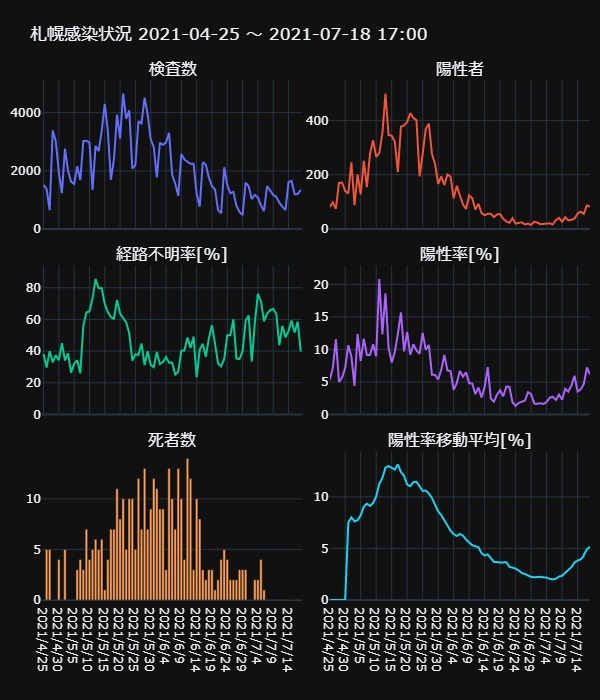
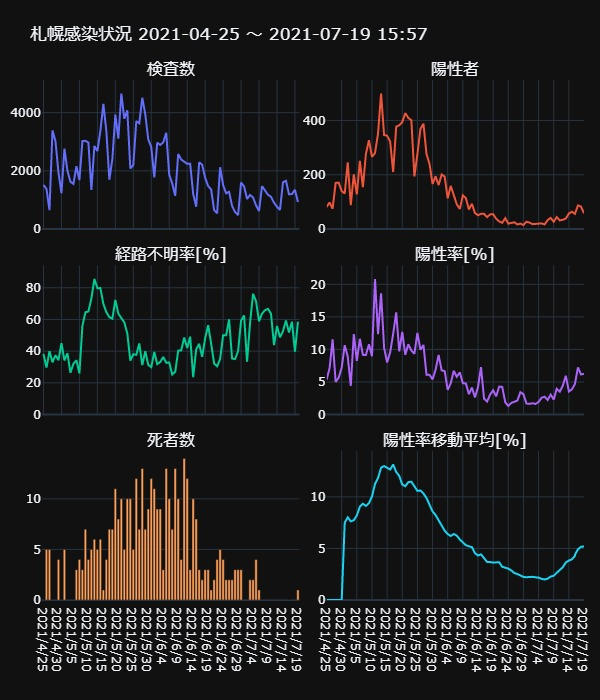
Updated with latest data.

diff --git a/docs/_includes/sapporo.html b/docs/_includes/sapporo.html
@@ -1,1 +1,1 @@
-<div>                            <div id="8878cf2e-042f-41bd-a453-0bb9c112a18b" class="plotly-graph-div" style="height:700px; width:600px;"></div>            <script type="text/javascript">                                    window.PLOTLYENV=window.PLOTLYENV || {};                                    if (document.getElementById("8878cf2e-042f-41bd-a453-0bb9c112a18b")) {                    Plotly.newPlot(                        "8878cf2e-042f-41bd-a453-0bb9c112a18b",                        [{"name": "\u691c\u67fb\u6570", "type": "scatter", "x": ["2021/4/25", "2021/4/26", "2021/4/27", "2021/4/28", "2021/4/29", "2021/4/30", "2021/5/1", "2021/5/2", "2021/5/3", "2021/5/4", "2021/5/5", "2021/5/6", "2021/5/7", "2021/5/8", "2021/5/9", "2021/5/10", "2021/5/11", "2021/5/12", "2021/5/13", "2021/5/14", "2021/5/15", "2021/5/16", "2021/5/17", "2021/5/18", "2021/5/19", "2021/5/20", "2021/5/21", "2021/5/22", "2021/5/23", "2021/5/24", "2021/5/25", "2021/5/26", "2021/5/27", "2021/5/28", "2021/5/29", "2021/5/30", "2021/5/31", "2021/6/1", "2021/6/2", "2021/6/3", "2021/6/4", "2021/6/5", "2021/6/6", "2021/6/7", "2021/6/8", "2021/6/9", "2021/6/10", "2021/6/11", "2021/6/12", "2021/6/13", "2021/6/14", "2021/6/15", "2021/6/16", "2021/6/17", "2021/6/18", "2021/6/19", "2021/6/20", "2021/6/21", "2021/6/22", "2021/6/23", "2021/6/24", "2021/6/25", "2021/6/26", "2021/6/27", "2021/6/28", "2021/6/29", "2021/6/30", "2021/7/1", "2021/7/2", "2021/7/3", "2021/7/4", "2021/7/5", "2021/7/6", "2021/7/7", "2021/7/8", "2021/7/9", "2021/7/10", "2021/7/11", "2021/7/12", "2021/7/13", "2021/7/14", "2021/7/15", "2021/7/16", "2021/7/16", "2021/7/17", "2021/7/18"], "xaxis": "x", "y": [1517, 1377, 649, 3391, 3018, 1946, 1231, 2764, 2001, 1626, 1553, 2157, 1680, 3028, 3031, 2972, 1345, 2856, 2680, 3372, 4302, 3365, 1694, 2402, 3933, 3105, 4656, 3789, 4080, 2080, 2201, 3708, 3632, 4511, 3943, 3079, 2818, 1773, 2967, 2891, 2978, 3307, 1863, 1567, 1142, 2577, 2391, 2307, 2240, 2244, 1208, 768, 2295, 2212, 1763, 1476, 1360, 653, 542, 2124, 1513, 1229, 1278, 793, 583, 478, 1599, 1467, 1035, 1172, 1086, 813, 621, 1476, 1340, 1175, 1110, 909, 764, 656, 1610, 1658, 1197, 1197, 1202, 1350], "yaxis": "y"}, {"name": "\u967d\u6027\u8005", "type": "scatter", "x": ["2021/4/25", "2021/4/26", "2021/4/27", "2021/4/28", "2021/4/29", "2021/4/30", "2021/5/1", "2021/5/2", "2021/5/3", "2021/5/4", "2021/5/5", "2021/5/6", "2021/5/7", "2021/5/8", "2021/5/9", "2021/5/10", "2021/5/11", "2021/5/12", "2021/5/13", "2021/5/14", "2021/5/15", "2021/5/16", "2021/5/17", "2021/5/18", "2021/5/19", "2021/5/20", "2021/5/21", "2021/5/22", "2021/5/23", "2021/5/24", "2021/5/25", "2021/5/26", "2021/5/27", "2021/5/28", "2021/5/29", "2021/5/30", "2021/5/31", "2021/6/1", "2021/6/2", "2021/6/3", "2021/6/4", "2021/6/5", "2021/6/6", "2021/6/7", "2021/6/8", "2021/6/9", "2021/6/10", "2021/6/11", "2021/6/12", "2021/6/13", "2021/6/14", "2021/6/15", "2021/6/16", "2021/6/17", "2021/6/18", "2021/6/19", "2021/6/20", "2021/6/21", "2021/6/22", "2021/6/23", "2021/6/24", "2021/6/25", "2021/6/26", "2021/6/27", "2021/6/28", "2021/6/29", "2021/6/30", "2021/7/1", "2021/7/2", "2021/7/3", "2021/7/4", "2021/7/5", "2021/7/6", "2021/7/7", "2021/7/8", "2021/7/9", "2021/7/10", "2021/7/11", "2021/7/12", "2021/7/13", "2021/7/14", "2021/7/15", "2021/7/16", "2021/7/16", "2021/7/17", "2021/7/18"], "xaxis": "x2", "y": [81, 98, 75, 170, 171, 140, 131, 246, 88, 201, 128, 251, 154, 277, 327, 266, 280, 352, 499, 346, 344, 322, 210, 377, 382, 394, 427, 409, 401, 194, 276, 369, 388, 276, 240, 166, 194, 162, 201, 193, 113, 159, 125, 91, 74, 124, 114, 72, 93, 59, 51, 56, 56, 44, 54, 55, 38, 28, 23, 40, 20, 22, 25, 17, 20, 15, 27, 24, 18, 19, 21, 21, 17, 33, 41, 27, 44, 32, 34, 39, 57, 64, 56, 56, 87, 83], "yaxis": "y2"}, {"name": "\u7d4c\u8def\u4e0d\u660e\u7387[%]", "type": "scatter", "x": ["2021/4/25", "2021/4/26", "2021/4/27", "2021/4/28", "2021/4/29", "2021/4/30", "2021/5/1", "2021/5/2", "2021/5/3", "2021/5/4", "2021/5/5", "2021/5/6", "2021/5/7", "2021/5/8", "2021/5/9", "2021/5/10", "2021/5/11", "2021/5/12", "2021/5/13", "2021/5/14", "2021/5/15", "2021/5/16", "2021/5/17", "2021/5/18", "2021/5/19", "2021/5/20", "2021/5/21", "2021/5/22", "2021/5/23", "2021/5/24", "2021/5/25", "2021/5/26", "2021/5/27", "2021/5/28", "2021/5/29", "2021/5/30", "2021/5/31", "2021/6/1", "2021/6/2", "2021/6/3", "2021/6/4", "2021/6/5", "2021/6/6", "2021/6/7", "2021/6/8", "2021/6/9", "2021/6/10", "2021/6/11", "2021/6/12", "2021/6/13", "2021/6/14", "2021/6/15", "2021/6/16", "2021/6/17", "2021/6/18", "2021/6/19", "2021/6/20", "2021/6/21", "2021/6/22", "2021/6/23", "2021/6/24", "2021/6/25", "2021/6/26", "2021/6/27", "2021/6/28", "2021/6/29", "2021/6/30", "2021/7/1", "2021/7/2", "2021/7/3", "2021/7/4", "2021/7/5", "2021/7/6", "2021/7/7", "2021/7/8", "2021/7/9", "2021/7/10", "2021/7/11", "2021/7/12", "2021/7/13", "2021/7/14", "2021/7/15", "2021/7/16", "2021/7/16", "2021/7/17", "2021/7/18"], "xaxis": "x3", "y": [38.2716049382716, 29.591836734693878, 40.0, 32.94117647058823, 37.42690058479532, 34.285714285714285, 45.038167938931295, 34.146341463414636, 38.63636363636363, 26.368159203980102, 32.03125, 34.26294820717131, 25.97402597402597, 55.95667870036101, 64.52599388379205, 65.0375939849624, 73.21428571428571, 85.51136363636364, 79.75951903807615, 79.76878612716763, 69.76744186046511, 64.59627329192547, 61.42857142857143, 60.47745358090185, 72.25130890052355, 63.70558375634518, 60.88992974238876, 58.19070904645477, 51.12219451371571, 34.02061855670103, 38.04347826086957, 37.669376693766935, 44.84536082474227, 31.15942028985507, 40.0, 31.32530120481928, 29.896907216494846, 39.50617283950617, 31.8407960199005, 33.160621761658035, 36.283185840707965, 32.70440251572327, 32.800000000000004, 25.274725274725274, 27.027027027027028, 40.32258064516129, 40.35087719298245, 48.61111111111111, 41.935483870967744, 49.152542372881356, 23.52941176470588, 41.07142857142857, 44.642857142857146, 36.36363636363637, 48.148148148148145, 56.36363636363636, 44.73684210526316, 32.142857142857146, 30.434782608695656, 35.0, 50.0, 50.0, 60.0, 35.294117647058826, 35.0, 40.0, 59.25925925925925, 62.5, 33.33333333333333, 57.89473684210527, 76.19047619047619, 71.42857142857143, 58.82352941176471, 63.63636363636363, 65.85365853658537, 66.66666666666666, 63.63636363636363, 43.75, 55.88235294117647, 48.717948717948715, 52.63157894736842, 59.375, 51.78571428571429, 51.78571428571429, 58.620689655172406, 39.75903614457831], "yaxis": "y3"}, {"name": "\u967d\u6027\u7387[%]", "type": "scatter", "x": ["2021/4/25", "2021/4/26", "2021/4/27", "2021/4/28", "2021/4/29", "2021/4/30", "2021/5/1", "2021/5/2", "2021/5/3", "2021/5/4", "2021/5/5", "2021/5/6", "2021/5/7", "2021/5/8", "2021/5/9", "2021/5/10", "2021/5/11", "2021/5/12", "2021/5/13", "2021/5/14", "2021/5/15", "2021/5/16", "2021/5/17", "2021/5/18", "2021/5/19", "2021/5/20", "2021/5/21", "2021/5/22", "2021/5/23", "2021/5/24", "2021/5/25", "2021/5/26", "2021/5/27", "2021/5/28", "2021/5/29", "2021/5/30", "2021/5/31", "2021/6/1", "2021/6/2", "2021/6/3", "2021/6/4", "2021/6/5", "2021/6/6", "2021/6/7", "2021/6/8", "2021/6/9", "2021/6/10", "2021/6/11", "2021/6/12", "2021/6/13", "2021/6/14", "2021/6/15", "2021/6/16", "2021/6/17", "2021/6/18", "2021/6/19", "2021/6/20", "2021/6/21", "2021/6/22", "2021/6/23", "2021/6/24", "2021/6/25", "2021/6/26", "2021/6/27", "2021/6/28", "2021/6/29", "2021/6/30", "2021/7/1", "2021/7/2", "2021/7/3", "2021/7/4", "2021/7/5", "2021/7/6", "2021/7/7", "2021/7/8", "2021/7/9", "2021/7/10", "2021/7/11", "2021/7/12", "2021/7/13", "2021/7/14", "2021/7/15", "2021/7/16", "2021/7/16", "2021/7/17", "2021/7/18"], "xaxis": "x4", "y": [5.339485827290705, 7.116920842411038, 11.556240369799692, 5.013270421704512, 5.666003976143141, 7.194244604316546, 10.641754670999187, 8.90014471780029, 4.397801099450275, 12.361623616236162, 8.24211204121056, 11.636532220676866, 9.166666666666666, 9.147952443857331, 10.788518640712635, 8.950201884253028, 20.817843866171003, 12.324929971988796, 18.619402985074625, 10.26097271648873, 7.996280799628081, 9.569093610698365, 12.396694214876034, 15.695253955037469, 9.712687515891178, 12.689210950080515, 9.170962199312713, 10.794404856162576, 9.82843137254902, 9.326923076923077, 12.539754656974104, 9.951456310679612, 10.682819383259911, 6.1183772999334956, 6.086735987826528, 5.391360831438779, 6.88431511710433, 9.137055837563452, 6.774519716885743, 6.675890695261155, 3.794492948287441, 4.807983066223163, 6.709608158883522, 5.8072750478621575, 6.47985989492119, 4.811796662786186, 4.767879548306149, 3.1209362808842656, 4.151785714285714, 2.6292335115864525, 4.2218543046357615, 7.291666666666667, 2.440087145969499, 1.9891500904159132, 3.0629608621667614, 3.7262872628726287, 2.794117647058824, 4.287901990811639, 4.243542435424354, 1.8832391713747645, 1.3218770654329148, 1.790073230268511, 1.9561815336463224, 2.1437578814627996, 3.430531732418525, 3.1380753138075312, 1.6885553470919326, 1.6359918200409, 1.7391304347826086, 1.621160409556314, 1.9337016574585635, 2.5830258302583027, 2.737520128824477, 2.2357723577235773, 3.0597014925373136, 2.297872340425532, 3.963963963963964, 3.52035203520352, 4.450261780104712, 5.945121951219512, 3.540372670807453, 3.8600723763570564, 4.678362573099415, 4.678362573099415, 7.23793677204659, 6.148148148148149], "yaxis": "y4"}, {"name": "\u6b7b\u8005\u6570", "type": "bar", "x": ["2021/4/25", "2021/4/26", "2021/4/27", "2021/4/28", "2021/4/29", "2021/4/30", "2021/5/1", "2021/5/2", "2021/5/3", "2021/5/4", "2021/5/5", "2021/5/6", "2021/5/7", "2021/5/8", "2021/5/9", "2021/5/10", "2021/5/11", "2021/5/12", "2021/5/13", "2021/5/14", "2021/5/15", "2021/5/16", "2021/5/17", "2021/5/18", "2021/5/19", "2021/5/20", "2021/5/21", "2021/5/22", "2021/5/23", "2021/5/24", "2021/5/25", "2021/5/26", "2021/5/27", "2021/5/28", "2021/5/29", "2021/5/30", "2021/5/31", "2021/6/1", "2021/6/2", "2021/6/3", "2021/6/4", "2021/6/5", "2021/6/6", "2021/6/7", "2021/6/8", "2021/6/9", "2021/6/10", "2021/6/11", "2021/6/12", "2021/6/13", "2021/6/14", "2021/6/15", "2021/6/16", "2021/6/17", "2021/6/18", "2021/6/19", "2021/6/20", "2021/6/21", "2021/6/22", "2021/6/23", "2021/6/24", "2021/6/25", "2021/6/26", "2021/6/27", "2021/6/28", "2021/6/29", "2021/6/30", "2021/7/1", "2021/7/2", "2021/7/3", "2021/7/4", "2021/7/5", "2021/7/6", "2021/7/7", "2021/7/8", "2021/7/9", "2021/7/10", "2021/7/11", "2021/7/12", "2021/7/13", "2021/7/14", "2021/7/15", "2021/7/16", "2021/7/16", "2021/7/17", "2021/7/18"], "xaxis": "x5", "y": [0, 5, 5, 0, 0, 4, 0, 5, 0, 0, 0, 3, 4, 3, 7, 4, 5, 6, 5, 6, 1, 4, 7, 7, 11, 8, 10, 5, 10, 10, 5, 12, 7, 13, 7, 9, 12, 11, 9, 9, 3, 13, 10, 7, 13, 10, 4, 14, 12, 3, 10, 8, 3, 2, 3, 3, 1, 2, 4, 5, 4, 2, 2, 2, 3, 3, 3, 0, 0, 2, 2, 4, 1, 0, 0, 0, 0, 0, 0, 0, 0, 0, 0, 0, 0, 0], "yaxis": "y5"}, {"name": "\u967d\u6027\u7387\u79fb\u52d5\u5e73\u5747[%]", "type": "scatter", "x": ["2021/4/25", "2021/4/26", "2021/4/27", "2021/4/28", "2021/4/29", "2021/4/30", "2021/5/1", "2021/5/2", "2021/5/3", "2021/5/4", "2021/5/5", "2021/5/6", "2021/5/7", "2021/5/8", "2021/5/9", "2021/5/10", "2021/5/11", "2021/5/12", "2021/5/13", "2021/5/14", "2021/5/15", "2021/5/16", "2021/5/17", "2021/5/18", "2021/5/19", "2021/5/20", "2021/5/21", "2021/5/22", "2021/5/23", "2021/5/24", "2021/5/25", "2021/5/26", "2021/5/27", "2021/5/28", "2021/5/29", "2021/5/30", "2021/5/31", "2021/6/1", "2021/6/2", "2021/6/3", "2021/6/4", "2021/6/5", "2021/6/6", "2021/6/7", "2021/6/8", "2021/6/9", "2021/6/10", "2021/6/11", "2021/6/12", "2021/6/13", "2021/6/14", "2021/6/15", "2021/6/16", "2021/6/17", "2021/6/18", "2021/6/19", "2021/6/20", "2021/6/21", "2021/6/22", "2021/6/23", "2021/6/24", "2021/6/25", "2021/6/26", "2021/6/27", "2021/6/28", "2021/6/29", "2021/6/30", "2021/7/1", "2021/7/2", "2021/7/3", "2021/7/4", "2021/7/5", "2021/7/6", "2021/7/7", "2021/7/8", "2021/7/9", "2021/7/10", "2021/7/11", "2021/7/12", "2021/7/13", "2021/7/14", "2021/7/15", "2021/7/16", "2021/7/16", "2021/7/17", "2021/7/18"], "xaxis": "x6", "y": [0.0, 0.0, 0.0, 0.0, 0.0, 0.0, 7.503988673237832, 8.012654229024914, 7.624208551459091, 7.739263300950015, 8.20052638945088, 9.053458995812841, 9.335233576148571, 9.12183325798545, 9.391600961258641, 10.041943930516178, 11.249975394792585, 11.833235099189475, 12.830788065532012, 12.987117501220878, 12.8225929806167, 12.648389404900376, 13.140745452132233, 12.408946893398872, 12.035769399670638, 11.188599108957195, 11.032883320789193, 11.432615328865548, 11.469663580558498, 11.03112484656522, 10.580339232556168, 10.614449060383087, 10.32782169369443, 9.891738136640255, 9.219214012592248, 8.585346792433644, 8.236402798173822, 7.750302966829444, 7.296454882001749, 6.724036498001926, 6.392053019195346, 6.209374030394867, 6.397695077172687, 6.24383221013809, 5.864232789760624, 5.583843782032115, 5.311270761038544, 5.215048379980947, 5.12130590113274, 4.53839523723316, 4.311906559629389, 4.4278789555930285, 4.0890633103335015, 3.6921019592063242, 3.683819756532395, 3.6230342634733828, 3.646589139969436, 3.6560245237088473, 3.220578204959945, 3.141028494303555, 3.045703776448841, 2.863862686177662, 2.6109904391453327, 2.5180819012030433, 2.395600435718313, 2.237676561201624, 2.2098645863040765, 2.254738122676646, 2.247460580464374, 2.1996004198800874, 2.169592387879482, 2.0485201161423072, 1.991297946859014, 2.0694718055206773, 2.2728589015915936, 2.352679173826297, 2.687365395884533, 2.9140297355623836, 3.1807777283975844, 3.639006560168304, 3.825378033466001, 3.9397167311545354, 4.279786764393661, 4.381843708555869, 4.912927242390593, 5.15548243782537], "yaxis": "y6"}],                        {"annotations": [{"font": {"size": 16}, "showarrow": false, "text": "\u691c\u67fb\u6570", "x": 0.2375, "xanchor": "center", "xref": "paper", "y": 1.0, "yanchor": "bottom", "yref": "paper"}, {"font": {"size": 16}, "showarrow": false, "text": "\u967d\u6027\u8005", "x": 0.7625, "xanchor": "center", "xref": "paper", "y": 1.0, "yanchor": "bottom", "yref": "paper"}, {"font": {"size": 16}, "showarrow": false, "text": "\u7d4c\u8def\u4e0d\u660e\u7387[%]", "x": 0.2375, "xanchor": "center", "xref": "paper", "y": 0.6433333333333333, "yanchor": "bottom", "yref": "paper"}, {"font": {"size": 16}, "showarrow": false, "text": "\u967d\u6027\u7387[%]", "x": 0.7625, "xanchor": "center", "xref": "paper", "y": 0.6433333333333333, "yanchor": "bottom", "yref": "paper"}, {"font": {"size": 16}, "showarrow": false, "text": "\u6b7b\u8005\u6570", "x": 0.2375, "xanchor": "center", "xref": "paper", "y": 0.2866666666666667, "yanchor": "bottom", "yref": "paper"}, {"font": {"size": 16}, "showarrow": false, "text": "\u967d\u6027\u7387\u79fb\u52d5\u5e73\u5747[%]", "x": 0.7625, "xanchor": "center", "xref": "paper", "y": 0.2866666666666667, "yanchor": "bottom", "yref": "paper"}], "height": 700, "margin": {"b": 100, "l": 10, "r": 10, "t": 80}, "showlegend": false, "template": {"data": {"bar": [{"error_x": {"color": "#f2f5fa"}, "error_y": {"color": "#f2f5fa"}, "marker": {"line": {"color": "rgb(17,17,17)", "width": 0.5}}, "type": "bar"}], "barpolar": [{"marker": {"line": {"color": "rgb(17,17,17)", "width": 0.5}}, "type": "barpolar"}], "carpet": [{"aaxis": {"endlinecolor": "#A2B1C6", "gridcolor": "#506784", "linecolor": "#506784", "minorgridcolor": "#506784", "startlinecolor": "#A2B1C6"}, "baxis": {"endlinecolor": "#A2B1C6", "gridcolor": "#506784", "linecolor": "#506784", "minorgridcolor": "#506784", "startlinecolor": "#A2B1C6"}, "type": "carpet"}], "choropleth": [{"colorbar": {"outlinewidth": 0, "ticks": ""}, "type": "choropleth"}], "contour": [{"colorbar": {"outlinewidth": 0, "ticks": ""}, "colorscale": [[0.0, "#0d0887"], [0.1111111111111111, "#46039f"], [0.2222222222222222, "#7201a8"], [0.3333333333333333, "#9c179e"], [0.4444444444444444, "#bd3786"], [0.5555555555555556, "#d8576b"], [0.6666666666666666, "#ed7953"], [0.7777777777777778, "#fb9f3a"], [0.8888888888888888, "#fdca26"], [1.0, "#f0f921"]], "type": "contour"}], "contourcarpet": [{"colorbar": {"outlinewidth": 0, "ticks": ""}, "type": "contourcarpet"}], "heatmap": [{"colorbar": {"outlinewidth": 0, "ticks": ""}, "colorscale": [[0.0, "#0d0887"], [0.1111111111111111, "#46039f"], [0.2222222222222222, "#7201a8"], [0.3333333333333333, "#9c179e"], [0.4444444444444444, "#bd3786"], [0.5555555555555556, "#d8576b"], [0.6666666666666666, "#ed7953"], [0.7777777777777778, "#fb9f3a"], [0.8888888888888888, "#fdca26"], [1.0, "#f0f921"]], "type": "heatmap"}], "heatmapgl": [{"colorbar": {"outlinewidth": 0, "ticks": ""}, "colorscale": [[0.0, "#0d0887"], [0.1111111111111111, "#46039f"], [0.2222222222222222, "#7201a8"], [0.3333333333333333, "#9c179e"], [0.4444444444444444, "#bd3786"], [0.5555555555555556, "#d8576b"], [0.6666666666666666, "#ed7953"], [0.7777777777777778, "#fb9f3a"], [0.8888888888888888, "#fdca26"], [1.0, "#f0f921"]], "type": "heatmapgl"}], "histogram": [{"marker": {"colorbar": {"outlinewidth": 0, "ticks": ""}}, "type": "histogram"}], "histogram2d": [{"colorbar": {"outlinewidth": 0, "ticks": ""}, "colorscale": [[0.0, "#0d0887"], [0.1111111111111111, "#46039f"], [0.2222222222222222, "#7201a8"], [0.3333333333333333, "#9c179e"], [0.4444444444444444, "#bd3786"], [0.5555555555555556, "#d8576b"], [0.6666666666666666, "#ed7953"], [0.7777777777777778, "#fb9f3a"], [0.8888888888888888, "#fdca26"], [1.0, "#f0f921"]], "type": "histogram2d"}], "histogram2dcontour": [{"colorbar": {"outlinewidth": 0, "ticks": ""}, "colorscale": [[0.0, "#0d0887"], [0.1111111111111111, "#46039f"], [0.2222222222222222, "#7201a8"], [0.3333333333333333, "#9c179e"], [0.4444444444444444, "#bd3786"], [0.5555555555555556, "#d8576b"], [0.6666666666666666, "#ed7953"], [0.7777777777777778, "#fb9f3a"], [0.8888888888888888, "#fdca26"], [1.0, "#f0f921"]], "type": "histogram2dcontour"}], "mesh3d": [{"colorbar": {"outlinewidth": 0, "ticks": ""}, "type": "mesh3d"}], "parcoords": [{"line": {"colorbar": {"outlinewidth": 0, "ticks": ""}}, "type": "parcoords"}], "pie": [{"automargin": true, "type": "pie"}], "scatter": [{"marker": {"line": {"color": "#283442"}}, "type": "scatter"}], "scatter3d": [{"line": {"colorbar": {"outlinewidth": 0, "ticks": ""}}, "marker": {"colorbar": {"outlinewidth": 0, "ticks": ""}}, "type": "scatter3d"}], "scattercarpet": [{"marker": {"colorbar": {"outlinewidth": 0, "ticks": ""}}, "type": "scattercarpet"}], "scattergeo": [{"marker": {"colorbar": {"outlinewidth": 0, "ticks": ""}}, "type": "scattergeo"}], "scattergl": [{"marker": {"line": {"color": "#283442"}}, "type": "scattergl"}], "scattermapbox": [{"marker": {"colorbar": {"outlinewidth": 0, "ticks": ""}}, "type": "scattermapbox"}], "scatterpolar": [{"marker": {"colorbar": {"outlinewidth": 0, "ticks": ""}}, "type": "scatterpolar"}], "scatterpolargl": [{"marker": {"colorbar": {"outlinewidth": 0, "ticks": ""}}, "type": "scatterpolargl"}], "scatterternary": [{"marker": {"colorbar": {"outlinewidth": 0, "ticks": ""}}, "type": "scatterternary"}], "surface": [{"colorbar": {"outlinewidth": 0, "ticks": ""}, "colorscale": [[0.0, "#0d0887"], [0.1111111111111111, "#46039f"], [0.2222222222222222, "#7201a8"], [0.3333333333333333, "#9c179e"], [0.4444444444444444, "#bd3786"], [0.5555555555555556, "#d8576b"], [0.6666666666666666, "#ed7953"], [0.7777777777777778, "#fb9f3a"], [0.8888888888888888, "#fdca26"], [1.0, "#f0f921"]], "type": "surface"}], "table": [{"cells": {"fill": {"color": "#506784"}, "line": {"color": "rgb(17,17,17)"}}, "header": {"fill": {"color": "#2a3f5f"}, "line": {"color": "rgb(17,17,17)"}}, "type": "table"}]}, "layout": {"annotationdefaults": {"arrowcolor": "#f2f5fa", "arrowhead": 0, "arrowwidth": 1}, "autotypenumbers": "strict", "coloraxis": {"colorbar": {"outlinewidth": 0, "ticks": ""}}, "colorscale": {"diverging": [[0, "#8e0152"], [0.1, "#c51b7d"], [0.2, "#de77ae"], [0.3, "#f1b6da"], [0.4, "#fde0ef"], [0.5, "#f7f7f7"], [0.6, "#e6f5d0"], [0.7, "#b8e186"], [0.8, "#7fbc41"], [0.9, "#4d9221"], [1, "#276419"]], "sequential": [[0.0, "#0d0887"], [0.1111111111111111, "#46039f"], [0.2222222222222222, "#7201a8"], [0.3333333333333333, "#9c179e"], [0.4444444444444444, "#bd3786"], [0.5555555555555556, "#d8576b"], [0.6666666666666666, "#ed7953"], [0.7777777777777778, "#fb9f3a"], [0.8888888888888888, "#fdca26"], [1.0, "#f0f921"]], "sequentialminus": [[0.0, "#0d0887"], [0.1111111111111111, "#46039f"], [0.2222222222222222, "#7201a8"], [0.3333333333333333, "#9c179e"], [0.4444444444444444, "#bd3786"], [0.5555555555555556, "#d8576b"], [0.6666666666666666, "#ed7953"], [0.7777777777777778, "#fb9f3a"], [0.8888888888888888, "#fdca26"], [1.0, "#f0f921"]]}, "colorway": ["#636efa", "#EF553B", "#00cc96", "#ab63fa", "#FFA15A", "#19d3f3", "#FF6692", "#B6E880", "#FF97FF", "#FECB52"], "font": {"color": "#f2f5fa"}, "geo": {"bgcolor": "rgb(17,17,17)", "lakecolor": "rgb(17,17,17)", "landcolor": "rgb(17,17,17)", "showlakes": true, "showland": true, "subunitcolor": "#506784"}, "hoverlabel": {"align": "left"}, "hovermode": "closest", "mapbox": {"style": "dark"}, "paper_bgcolor": "rgb(17,17,17)", "plot_bgcolor": "rgb(17,17,17)", "polar": {"angularaxis": {"gridcolor": "#506784", "linecolor": "#506784", "ticks": ""}, "bgcolor": "rgb(17,17,17)", "radialaxis": {"gridcolor": "#506784", "linecolor": "#506784", "ticks": ""}}, "scene": {"xaxis": {"backgroundcolor": "rgb(17,17,17)", "gridcolor": "#506784", "gridwidth": 2, "linecolor": "#506784", "showbackground": true, "ticks": "", "zerolinecolor": "#C8D4E3"}, "yaxis": {"backgroundcolor": "rgb(17,17,17)", "gridcolor": "#506784", "gridwidth": 2, "linecolor": "#506784", "showbackground": true, "ticks": "", "zerolinecolor": "#C8D4E3"}, "zaxis": {"backgroundcolor": "rgb(17,17,17)", "gridcolor": "#506784", "gridwidth": 2, "linecolor": "#506784", "showbackground": true, "ticks": "", "zerolinecolor": "#C8D4E3"}}, "shapedefaults": {"line": {"color": "#f2f5fa"}}, "sliderdefaults": {"bgcolor": "#C8D4E3", "bordercolor": "rgb(17,17,17)", "borderwidth": 1, "tickwidth": 0}, "ternary": {"aaxis": {"gridcolor": "#506784", "linecolor": "#506784", "ticks": ""}, "baxis": {"gridcolor": "#506784", "linecolor": "#506784", "ticks": ""}, "bgcolor": "rgb(17,17,17)", "caxis": {"gridcolor": "#506784", "linecolor": "#506784", "ticks": ""}}, "title": {"x": 0.05}, "updatemenudefaults": {"bgcolor": "#506784", "borderwidth": 0}, "xaxis": {"automargin": true, "gridcolor": "#283442", "linecolor": "#506784", "ticks": "", "title": {"standoff": 15}, "zerolinecolor": "#283442", "zerolinewidth": 2}, "yaxis": {"automargin": true, "gridcolor": "#283442", "linecolor": "#506784", "ticks": "", "title": {"standoff": 15}, "zerolinecolor": "#283442", "zerolinewidth": 2}}}, "title": {"text": "\u672d\u5e4c\u611f\u67d3\u72b6\u6cc1 2021-04-25 \uff5e 2021-07-18 17:00"}, "width": 600, "xaxis": {"anchor": "y", "domain": [0.0, 0.475], "matches": "x5", "showticklabels": false}, "xaxis2": {"anchor": "y2", "domain": [0.525, 1.0], "matches": "x6", "showticklabels": false}, "xaxis3": {"anchor": "y3", "domain": [0.0, 0.475], "matches": "x5", "showticklabels": false}, "xaxis4": {"anchor": "y4", "domain": [0.525, 1.0], "matches": "x6", "showticklabels": false}, "xaxis5": {"anchor": "y5", "domain": [0.0, 0.475]}, "xaxis6": {"anchor": "y6", "domain": [0.525, 1.0]}, "yaxis": {"anchor": "x", "domain": [0.7133333333333334, 1.0], "range": [0, 5121.6]}, "yaxis2": {"anchor": "x2", "domain": [0.7133333333333334, 1.0], "range": [0, 548.9000000000001]}, "yaxis3": {"anchor": "x3", "domain": [0.3566666666666667, 0.6433333333333333], "range": [0, 94.06250000000001]}, "yaxis4": {"anchor": "x4", "domain": [0.3566666666666667, 0.6433333333333333], "range": [0, 22.899628252788105]}, "yaxis5": {"anchor": "x5", "domain": [0.0, 0.2866666666666667]}, "yaxis6": {"anchor": "x6", "domain": [0.0, 0.2866666666666667], "range": [0, 14.454819997345457]}},                        {"responsive": true}                    )                };                            </script>        </div>
+<div>                            <div id="2f291a9d-5e00-465c-91f9-f6accf0e787b" class="plotly-graph-div" style="height:700px; width:600px;"></div>            <script type="text/javascript">                                    window.PLOTLYENV=window.PLOTLYENV || {};                                    if (document.getElementById("2f291a9d-5e00-465c-91f9-f6accf0e787b")) {                    Plotly.newPlot(                        "2f291a9d-5e00-465c-91f9-f6accf0e787b",                        [{"name": "\u691c\u67fb\u6570", "type": "scatter", "x": ["2021/4/25", "2021/4/26", "2021/4/27", "2021/4/28", "2021/4/29", "2021/4/30", "2021/5/1", "2021/5/2", "2021/5/3", "2021/5/4", "2021/5/5", "2021/5/6", "2021/5/7", "2021/5/8", "2021/5/9", "2021/5/10", "2021/5/11", "2021/5/12", "2021/5/13", "2021/5/14", "2021/5/15", "2021/5/16", "2021/5/17", "2021/5/18", "2021/5/19", "2021/5/20", "2021/5/21", "2021/5/22", "2021/5/23", "2021/5/24", "2021/5/25", "2021/5/26", "2021/5/27", "2021/5/28", "2021/5/29", "2021/5/30", "2021/5/31", "2021/6/1", "2021/6/2", "2021/6/3", "2021/6/4", "2021/6/5", "2021/6/6", "2021/6/7", "2021/6/8", "2021/6/9", "2021/6/10", "2021/6/11", "2021/6/12", "2021/6/13", "2021/6/14", "2021/6/15", "2021/6/16", "2021/6/17", "2021/6/18", "2021/6/19", "2021/6/20", "2021/6/21", "2021/6/22", "2021/6/23", "2021/6/24", "2021/6/25", "2021/6/26", "2021/6/27", "2021/6/28", "2021/6/29", "2021/6/30", "2021/7/1", "2021/7/2", "2021/7/3", "2021/7/4", "2021/7/5", "2021/7/6", "2021/7/7", "2021/7/8", "2021/7/9", "2021/7/10", "2021/7/11", "2021/7/12", "2021/7/13", "2021/7/14", "2021/7/15", "2021/7/16", "2021/7/16", "2021/7/17", "2021/7/18", "2021/7/19"], "xaxis": "x", "y": [1517, 1377, 649, 3391, 3018, 1946, 1231, 2764, 2001, 1626, 1553, 2157, 1680, 3028, 3031, 2972, 1345, 2856, 2680, 3372, 4302, 3365, 1694, 2402, 3933, 3105, 4656, 3789, 4080, 2080, 2201, 3708, 3632, 4511, 3943, 3079, 2818, 1773, 2967, 2891, 2978, 3307, 1863, 1567, 1142, 2577, 2391, 2307, 2240, 2244, 1208, 768, 2295, 2212, 1763, 1476, 1360, 653, 542, 2124, 1513, 1229, 1278, 793, 583, 478, 1599, 1467, 1035, 1172, 1086, 813, 621, 1476, 1340, 1175, 1110, 909, 764, 656, 1610, 1658, 1197, 1197, 1202, 1350, 926], "yaxis": "y"}, {"name": "\u967d\u6027\u8005", "type": "scatter", "x": ["2021/4/25", "2021/4/26", "2021/4/27", "2021/4/28", "2021/4/29", "2021/4/30", "2021/5/1", "2021/5/2", "2021/5/3", "2021/5/4", "2021/5/5", "2021/5/6", "2021/5/7", "2021/5/8", "2021/5/9", "2021/5/10", "2021/5/11", "2021/5/12", "2021/5/13", "2021/5/14", "2021/5/15", "2021/5/16", "2021/5/17", "2021/5/18", "2021/5/19", "2021/5/20", "2021/5/21", "2021/5/22", "2021/5/23", "2021/5/24", "2021/5/25", "2021/5/26", "2021/5/27", "2021/5/28", "2021/5/29", "2021/5/30", "2021/5/31", "2021/6/1", "2021/6/2", "2021/6/3", "2021/6/4", "2021/6/5", "2021/6/6", "2021/6/7", "2021/6/8", "2021/6/9", "2021/6/10", "2021/6/11", "2021/6/12", "2021/6/13", "2021/6/14", "2021/6/15", "2021/6/16", "2021/6/17", "2021/6/18", "2021/6/19", "2021/6/20", "2021/6/21", "2021/6/22", "2021/6/23", "2021/6/24", "2021/6/25", "2021/6/26", "2021/6/27", "2021/6/28", "2021/6/29", "2021/6/30", "2021/7/1", "2021/7/2", "2021/7/3", "2021/7/4", "2021/7/5", "2021/7/6", "2021/7/7", "2021/7/8", "2021/7/9", "2021/7/10", "2021/7/11", "2021/7/12", "2021/7/13", "2021/7/14", "2021/7/15", "2021/7/16", "2021/7/16", "2021/7/17", "2021/7/18", "2021/7/19"], "xaxis": "x2", "y": [81, 98, 75, 170, 171, 140, 131, 246, 88, 201, 128, 251, 154, 277, 327, 266, 280, 352, 499, 346, 344, 322, 210, 377, 382, 394, 427, 409, 401, 194, 276, 369, 388, 276, 240, 166, 194, 162, 201, 193, 113, 159, 125, 91, 74, 124, 114, 72, 93, 59, 51, 56, 56, 44, 54, 55, 38, 28, 23, 40, 20, 22, 25, 17, 20, 15, 27, 24, 18, 19, 21, 21, 17, 33, 41, 27, 44, 32, 34, 39, 57, 64, 56, 56, 87, 83, 58], "yaxis": "y2"}, {"name": "\u7d4c\u8def\u4e0d\u660e\u7387[%]", "type": "scatter", "x": ["2021/4/25", "2021/4/26", "2021/4/27", "2021/4/28", "2021/4/29", "2021/4/30", "2021/5/1", "2021/5/2", "2021/5/3", "2021/5/4", "2021/5/5", "2021/5/6", "2021/5/7", "2021/5/8", "2021/5/9", "2021/5/10", "2021/5/11", "2021/5/12", "2021/5/13", "2021/5/14", "2021/5/15", "2021/5/16", "2021/5/17", "2021/5/18", "2021/5/19", "2021/5/20", "2021/5/21", "2021/5/22", "2021/5/23", "2021/5/24", "2021/5/25", "2021/5/26", "2021/5/27", "2021/5/28", "2021/5/29", "2021/5/30", "2021/5/31", "2021/6/1", "2021/6/2", "2021/6/3", "2021/6/4", "2021/6/5", "2021/6/6", "2021/6/7", "2021/6/8", "2021/6/9", "2021/6/10", "2021/6/11", "2021/6/12", "2021/6/13", "2021/6/14", "2021/6/15", "2021/6/16", "2021/6/17", "2021/6/18", "2021/6/19", "2021/6/20", "2021/6/21", "2021/6/22", "2021/6/23", "2021/6/24", "2021/6/25", "2021/6/26", "2021/6/27", "2021/6/28", "2021/6/29", "2021/6/30", "2021/7/1", "2021/7/2", "2021/7/3", "2021/7/4", "2021/7/5", "2021/7/6", "2021/7/7", "2021/7/8", "2021/7/9", "2021/7/10", "2021/7/11", "2021/7/12", "2021/7/13", "2021/7/14", "2021/7/15", "2021/7/16", "2021/7/16", "2021/7/17", "2021/7/18", "2021/7/19"], "xaxis": "x3", "y": [38.2716049382716, 29.591836734693878, 40.0, 32.94117647058823, 37.42690058479532, 34.285714285714285, 45.038167938931295, 34.146341463414636, 38.63636363636363, 26.368159203980102, 32.03125, 34.26294820717131, 25.97402597402597, 55.95667870036101, 64.52599388379205, 65.0375939849624, 73.21428571428571, 85.51136363636364, 79.75951903807615, 79.76878612716763, 69.76744186046511, 64.59627329192547, 61.42857142857143, 60.47745358090185, 72.25130890052355, 63.70558375634518, 60.88992974238876, 58.19070904645477, 51.12219451371571, 34.02061855670103, 38.04347826086957, 37.669376693766935, 44.84536082474227, 31.15942028985507, 40.0, 31.32530120481928, 29.896907216494846, 39.50617283950617, 31.8407960199005, 33.160621761658035, 36.283185840707965, 32.70440251572327, 32.800000000000004, 25.274725274725274, 27.027027027027028, 40.32258064516129, 40.35087719298245, 48.61111111111111, 41.935483870967744, 49.152542372881356, 23.52941176470588, 41.07142857142857, 44.642857142857146, 36.36363636363637, 48.148148148148145, 56.36363636363636, 44.73684210526316, 32.142857142857146, 30.434782608695656, 35.0, 50.0, 50.0, 60.0, 35.294117647058826, 35.0, 40.0, 59.25925925925925, 62.5, 33.33333333333333, 57.89473684210527, 76.19047619047619, 71.42857142857143, 58.82352941176471, 63.63636363636363, 65.85365853658537, 66.66666666666666, 63.63636363636363, 43.75, 55.88235294117647, 48.717948717948715, 52.63157894736842, 59.375, 51.78571428571429, 51.78571428571429, 58.620689655172406, 39.75903614457831, 58.620689655172406], "yaxis": "y3"}, {"name": "\u967d\u6027\u7387[%]", "type": "scatter", "x": ["2021/4/25", "2021/4/26", "2021/4/27", "2021/4/28", "2021/4/29", "2021/4/30", "2021/5/1", "2021/5/2", "2021/5/3", "2021/5/4", "2021/5/5", "2021/5/6", "2021/5/7", "2021/5/8", "2021/5/9", "2021/5/10", "2021/5/11", "2021/5/12", "2021/5/13", "2021/5/14", "2021/5/15", "2021/5/16", "2021/5/17", "2021/5/18", "2021/5/19", "2021/5/20", "2021/5/21", "2021/5/22", "2021/5/23", "2021/5/24", "2021/5/25", "2021/5/26", "2021/5/27", "2021/5/28", "2021/5/29", "2021/5/30", "2021/5/31", "2021/6/1", "2021/6/2", "2021/6/3", "2021/6/4", "2021/6/5", "2021/6/6", "2021/6/7", "2021/6/8", "2021/6/9", "2021/6/10", "2021/6/11", "2021/6/12", "2021/6/13", "2021/6/14", "2021/6/15", "2021/6/16", "2021/6/17", "2021/6/18", "2021/6/19", "2021/6/20", "2021/6/21", "2021/6/22", "2021/6/23", "2021/6/24", "2021/6/25", "2021/6/26", "2021/6/27", "2021/6/28", "2021/6/29", "2021/6/30", "2021/7/1", "2021/7/2", "2021/7/3", "2021/7/4", "2021/7/5", "2021/7/6", "2021/7/7", "2021/7/8", "2021/7/9", "2021/7/10", "2021/7/11", "2021/7/12", "2021/7/13", "2021/7/14", "2021/7/15", "2021/7/16", "2021/7/16", "2021/7/17", "2021/7/18", "2021/7/19"], "xaxis": "x4", "y": [5.339485827290705, 7.116920842411038, 11.556240369799692, 5.013270421704512, 5.666003976143141, 7.194244604316546, 10.641754670999187, 8.90014471780029, 4.397801099450275, 12.361623616236162, 8.24211204121056, 11.636532220676866, 9.166666666666666, 9.147952443857331, 10.788518640712635, 8.950201884253028, 20.817843866171003, 12.324929971988796, 18.619402985074625, 10.26097271648873, 7.996280799628081, 9.569093610698365, 12.396694214876034, 15.695253955037469, 9.712687515891178, 12.689210950080515, 9.170962199312713, 10.794404856162576, 9.82843137254902, 9.326923076923077, 12.539754656974104, 9.951456310679612, 10.682819383259911, 6.1183772999334956, 6.086735987826528, 5.391360831438779, 6.88431511710433, 9.137055837563452, 6.774519716885743, 6.675890695261155, 3.794492948287441, 4.807983066223163, 6.709608158883522, 5.8072750478621575, 6.47985989492119, 4.811796662786186, 4.767879548306149, 3.1209362808842656, 4.151785714285714, 2.6292335115864525, 4.2218543046357615, 7.291666666666667, 2.440087145969499, 1.9891500904159132, 3.0629608621667614, 3.7262872628726287, 2.794117647058824, 4.287901990811639, 4.243542435424354, 1.8832391713747645, 1.3218770654329148, 1.790073230268511, 1.9561815336463224, 2.1437578814627996, 3.430531732418525, 3.1380753138075312, 1.6885553470919326, 1.6359918200409, 1.7391304347826086, 1.621160409556314, 1.9337016574585635, 2.5830258302583027, 2.737520128824477, 2.2357723577235773, 3.0597014925373136, 2.297872340425532, 3.963963963963964, 3.52035203520352, 4.450261780104712, 5.945121951219512, 3.540372670807453, 3.8600723763570564, 4.678362573099415, 4.678362573099415, 7.23793677204659, 6.148148148148149, 6.263498920086392], "yaxis": "y4"}, {"name": "\u6b7b\u8005\u6570", "type": "bar", "x": ["2021/4/25", "2021/4/26", "2021/4/27", "2021/4/28", "2021/4/29", "2021/4/30", "2021/5/1", "2021/5/2", "2021/5/3", "2021/5/4", "2021/5/5", "2021/5/6", "2021/5/7", "2021/5/8", "2021/5/9", "2021/5/10", "2021/5/11", "2021/5/12", "2021/5/13", "2021/5/14", "2021/5/15", "2021/5/16", "2021/5/17", "2021/5/18", "2021/5/19", "2021/5/20", "2021/5/21", "2021/5/22", "2021/5/23", "2021/5/24", "2021/5/25", "2021/5/26", "2021/5/27", "2021/5/28", "2021/5/29", "2021/5/30", "2021/5/31", "2021/6/1", "2021/6/2", "2021/6/3", "2021/6/4", "2021/6/5", "2021/6/6", "2021/6/7", "2021/6/8", "2021/6/9", "2021/6/10", "2021/6/11", "2021/6/12", "2021/6/13", "2021/6/14", "2021/6/15", "2021/6/16", "2021/6/17", "2021/6/18", "2021/6/19", "2021/6/20", "2021/6/21", "2021/6/22", "2021/6/23", "2021/6/24", "2021/6/25", "2021/6/26", "2021/6/27", "2021/6/28", "2021/6/29", "2021/6/30", "2021/7/1", "2021/7/2", "2021/7/3", "2021/7/4", "2021/7/5", "2021/7/6", "2021/7/7", "2021/7/8", "2021/7/9", "2021/7/10", "2021/7/11", "2021/7/12", "2021/7/13", "2021/7/14", "2021/7/15", "2021/7/16", "2021/7/16", "2021/7/17", "2021/7/18", "2021/7/19"], "xaxis": "x5", "y": [0, 5, 5, 0, 0, 4, 0, 5, 0, 0, 0, 3, 4, 3, 7, 4, 5, 6, 5, 6, 1, 4, 7, 7, 11, 8, 10, 5, 10, 10, 5, 12, 7, 13, 7, 9, 12, 11, 9, 9, 3, 13, 10, 7, 13, 10, 4, 14, 12, 3, 10, 8, 3, 2, 3, 3, 1, 2, 4, 5, 4, 2, 2, 2, 3, 3, 3, 0, 0, 2, 2, 4, 1, 0, 0, 0, 0, 0, 0, 0, 0, 0, 0, 0, 0, 0, 1], "yaxis": "y5"}, {"name": "\u967d\u6027\u7387\u79fb\u52d5\u5e73\u5747[%]", "type": "scatter", "x": ["2021/4/25", "2021/4/26", "2021/4/27", "2021/4/28", "2021/4/29", "2021/4/30", "2021/5/1", "2021/5/2", "2021/5/3", "2021/5/4", "2021/5/5", "2021/5/6", "2021/5/7", "2021/5/8", "2021/5/9", "2021/5/10", "2021/5/11", "2021/5/12", "2021/5/13", "2021/5/14", "2021/5/15", "2021/5/16", "2021/5/17", "2021/5/18", "2021/5/19", "2021/5/20", "2021/5/21", "2021/5/22", "2021/5/23", "2021/5/24", "2021/5/25", "2021/5/26", "2021/5/27", "2021/5/28", "2021/5/29", "2021/5/30", "2021/5/31", "2021/6/1", "2021/6/2", "2021/6/3", "2021/6/4", "2021/6/5", "2021/6/6", "2021/6/7", "2021/6/8", "2021/6/9", "2021/6/10", "2021/6/11", "2021/6/12", "2021/6/13", "2021/6/14", "2021/6/15", "2021/6/16", "2021/6/17", "2021/6/18", "2021/6/19", "2021/6/20", "2021/6/21", "2021/6/22", "2021/6/23", "2021/6/24", "2021/6/25", "2021/6/26", "2021/6/27", "2021/6/28", "2021/6/29", "2021/6/30", "2021/7/1", "2021/7/2", "2021/7/3", "2021/7/4", "2021/7/5", "2021/7/6", "2021/7/7", "2021/7/8", "2021/7/9", "2021/7/10", "2021/7/11", "2021/7/12", "2021/7/13", "2021/7/14", "2021/7/15", "2021/7/16", "2021/7/16", "2021/7/17", "2021/7/18", "2021/7/19"], "xaxis": "x6", "y": [0.0, 0.0, 0.0, 0.0, 0.0, 0.0, 7.503988673237832, 8.012654229024914, 7.624208551459091, 7.739263300950015, 8.20052638945088, 9.053458995812841, 9.335233576148571, 9.12183325798545, 9.391600961258641, 10.041943930516178, 11.249975394792585, 11.833235099189475, 12.830788065532012, 12.987117501220878, 12.8225929806167, 12.648389404900376, 13.140745452132233, 12.408946893398872, 12.035769399670638, 11.188599108957195, 11.032883320789193, 11.432615328865548, 11.469663580558498, 11.03112484656522, 10.580339232556168, 10.614449060383087, 10.32782169369443, 9.891738136640255, 9.219214012592248, 8.585346792433644, 8.236402798173822, 7.750302966829444, 7.296454882001749, 6.724036498001926, 6.392053019195346, 6.209374030394867, 6.397695077172687, 6.24383221013809, 5.864232789760624, 5.583843782032115, 5.311270761038544, 5.215048379980947, 5.12130590113274, 4.53839523723316, 4.311906559629389, 4.4278789555930285, 4.0890633103335015, 3.6921019592063242, 3.683819756532395, 3.6230342634733828, 3.646589139969436, 3.6560245237088473, 3.220578204959945, 3.141028494303555, 3.045703776448841, 2.863862686177662, 2.6109904391453327, 2.5180819012030433, 2.395600435718313, 2.237676561201624, 2.2098645863040765, 2.254738122676646, 2.247460580464374, 2.1996004198800874, 2.169592387879482, 2.0485201161423072, 1.991297946859014, 2.0694718055206773, 2.2728589015915936, 2.352679173826297, 2.687365395884533, 2.9140297355623836, 3.1807777283975844, 3.639006560168304, 3.825378033466001, 3.9397167311545354, 4.279786764393661, 4.381843708555869, 4.912927242390593, 5.15548243782537, 5.20096486194921], "yaxis": "y6"}],                        {"annotations": [{"font": {"size": 16}, "showarrow": false, "text": "\u691c\u67fb\u6570", "x": 0.2375, "xanchor": "center", "xref": "paper", "y": 1.0, "yanchor": "bottom", "yref": "paper"}, {"font": {"size": 16}, "showarrow": false, "text": "\u967d\u6027\u8005", "x": 0.7625, "xanchor": "center", "xref": "paper", "y": 1.0, "yanchor": "bottom", "yref": "paper"}, {"font": {"size": 16}, "showarrow": false, "text": "\u7d4c\u8def\u4e0d\u660e\u7387[%]", "x": 0.2375, "xanchor": "center", "xref": "paper", "y": 0.6433333333333333, "yanchor": "bottom", "yref": "paper"}, {"font": {"size": 16}, "showarrow": false, "text": "\u967d\u6027\u7387[%]", "x": 0.7625, "xanchor": "center", "xref": "paper", "y": 0.6433333333333333, "yanchor": "bottom", "yref": "paper"}, {"font": {"size": 16}, "showarrow": false, "text": "\u6b7b\u8005\u6570", "x": 0.2375, "xanchor": "center", "xref": "paper", "y": 0.2866666666666667, "yanchor": "bottom", "yref": "paper"}, {"font": {"size": 16}, "showarrow": false, "text": "\u967d\u6027\u7387\u79fb\u52d5\u5e73\u5747[%]", "x": 0.7625, "xanchor": "center", "xref": "paper", "y": 0.2866666666666667, "yanchor": "bottom", "yref": "paper"}], "height": 700, "margin": {"b": 100, "l": 10, "r": 10, "t": 80}, "showlegend": false, "template": {"data": {"bar": [{"error_x": {"color": "#f2f5fa"}, "error_y": {"color": "#f2f5fa"}, "marker": {"line": {"color": "rgb(17,17,17)", "width": 0.5}}, "type": "bar"}], "barpolar": [{"marker": {"line": {"color": "rgb(17,17,17)", "width": 0.5}}, "type": "barpolar"}], "carpet": [{"aaxis": {"endlinecolor": "#A2B1C6", "gridcolor": "#506784", "linecolor": "#506784", "minorgridcolor": "#506784", "startlinecolor": "#A2B1C6"}, "baxis": {"endlinecolor": "#A2B1C6", "gridcolor": "#506784", "linecolor": "#506784", "minorgridcolor": "#506784", "startlinecolor": "#A2B1C6"}, "type": "carpet"}], "choropleth": [{"colorbar": {"outlinewidth": 0, "ticks": ""}, "type": "choropleth"}], "contour": [{"colorbar": {"outlinewidth": 0, "ticks": ""}, "colorscale": [[0.0, "#0d0887"], [0.1111111111111111, "#46039f"], [0.2222222222222222, "#7201a8"], [0.3333333333333333, "#9c179e"], [0.4444444444444444, "#bd3786"], [0.5555555555555556, "#d8576b"], [0.6666666666666666, "#ed7953"], [0.7777777777777778, "#fb9f3a"], [0.8888888888888888, "#fdca26"], [1.0, "#f0f921"]], "type": "contour"}], "contourcarpet": [{"colorbar": {"outlinewidth": 0, "ticks": ""}, "type": "contourcarpet"}], "heatmap": [{"colorbar": {"outlinewidth": 0, "ticks": ""}, "colorscale": [[0.0, "#0d0887"], [0.1111111111111111, "#46039f"], [0.2222222222222222, "#7201a8"], [0.3333333333333333, "#9c179e"], [0.4444444444444444, "#bd3786"], [0.5555555555555556, "#d8576b"], [0.6666666666666666, "#ed7953"], [0.7777777777777778, "#fb9f3a"], [0.8888888888888888, "#fdca26"], [1.0, "#f0f921"]], "type": "heatmap"}], "heatmapgl": [{"colorbar": {"outlinewidth": 0, "ticks": ""}, "colorscale": [[0.0, "#0d0887"], [0.1111111111111111, "#46039f"], [0.2222222222222222, "#7201a8"], [0.3333333333333333, "#9c179e"], [0.4444444444444444, "#bd3786"], [0.5555555555555556, "#d8576b"], [0.6666666666666666, "#ed7953"], [0.7777777777777778, "#fb9f3a"], [0.8888888888888888, "#fdca26"], [1.0, "#f0f921"]], "type": "heatmapgl"}], "histogram": [{"marker": {"colorbar": {"outlinewidth": 0, "ticks": ""}}, "type": "histogram"}], "histogram2d": [{"colorbar": {"outlinewidth": 0, "ticks": ""}, "colorscale": [[0.0, "#0d0887"], [0.1111111111111111, "#46039f"], [0.2222222222222222, "#7201a8"], [0.3333333333333333, "#9c179e"], [0.4444444444444444, "#bd3786"], [0.5555555555555556, "#d8576b"], [0.6666666666666666, "#ed7953"], [0.7777777777777778, "#fb9f3a"], [0.8888888888888888, "#fdca26"], [1.0, "#f0f921"]], "type": "histogram2d"}], "histogram2dcontour": [{"colorbar": {"outlinewidth": 0, "ticks": ""}, "colorscale": [[0.0, "#0d0887"], [0.1111111111111111, "#46039f"], [0.2222222222222222, "#7201a8"], [0.3333333333333333, "#9c179e"], [0.4444444444444444, "#bd3786"], [0.5555555555555556, "#d8576b"], [0.6666666666666666, "#ed7953"], [0.7777777777777778, "#fb9f3a"], [0.8888888888888888, "#fdca26"], [1.0, "#f0f921"]], "type": "histogram2dcontour"}], "mesh3d": [{"colorbar": {"outlinewidth": 0, "ticks": ""}, "type": "mesh3d"}], "parcoords": [{"line": {"colorbar": {"outlinewidth": 0, "ticks": ""}}, "type": "parcoords"}], "pie": [{"automargin": true, "type": "pie"}], "scatter": [{"marker": {"line": {"color": "#283442"}}, "type": "scatter"}], "scatter3d": [{"line": {"colorbar": {"outlinewidth": 0, "ticks": ""}}, "marker": {"colorbar": {"outlinewidth": 0, "ticks": ""}}, "type": "scatter3d"}], "scattercarpet": [{"marker": {"colorbar": {"outlinewidth": 0, "ticks": ""}}, "type": "scattercarpet"}], "scattergeo": [{"marker": {"colorbar": {"outlinewidth": 0, "ticks": ""}}, "type": "scattergeo"}], "scattergl": [{"marker": {"line": {"color": "#283442"}}, "type": "scattergl"}], "scattermapbox": [{"marker": {"colorbar": {"outlinewidth": 0, "ticks": ""}}, "type": "scattermapbox"}], "scatterpolar": [{"marker": {"colorbar": {"outlinewidth": 0, "ticks": ""}}, "type": "scatterpolar"}], "scatterpolargl": [{"marker": {"colorbar": {"outlinewidth": 0, "ticks": ""}}, "type": "scatterpolargl"}], "scatterternary": [{"marker": {"colorbar": {"outlinewidth": 0, "ticks": ""}}, "type": "scatterternary"}], "surface": [{"colorbar": {"outlinewidth": 0, "ticks": ""}, "colorscale": [[0.0, "#0d0887"], [0.1111111111111111, "#46039f"], [0.2222222222222222, "#7201a8"], [0.3333333333333333, "#9c179e"], [0.4444444444444444, "#bd3786"], [0.5555555555555556, "#d8576b"], [0.6666666666666666, "#ed7953"], [0.7777777777777778, "#fb9f3a"], [0.8888888888888888, "#fdca26"], [1.0, "#f0f921"]], "type": "surface"}], "table": [{"cells": {"fill": {"color": "#506784"}, "line": {"color": "rgb(17,17,17)"}}, "header": {"fill": {"color": "#2a3f5f"}, "line": {"color": "rgb(17,17,17)"}}, "type": "table"}]}, "layout": {"annotationdefaults": {"arrowcolor": "#f2f5fa", "arrowhead": 0, "arrowwidth": 1}, "autotypenumbers": "strict", "coloraxis": {"colorbar": {"outlinewidth": 0, "ticks": ""}}, "colorscale": {"diverging": [[0, "#8e0152"], [0.1, "#c51b7d"], [0.2, "#de77ae"], [0.3, "#f1b6da"], [0.4, "#fde0ef"], [0.5, "#f7f7f7"], [0.6, "#e6f5d0"], [0.7, "#b8e186"], [0.8, "#7fbc41"], [0.9, "#4d9221"], [1, "#276419"]], "sequential": [[0.0, "#0d0887"], [0.1111111111111111, "#46039f"], [0.2222222222222222, "#7201a8"], [0.3333333333333333, "#9c179e"], [0.4444444444444444, "#bd3786"], [0.5555555555555556, "#d8576b"], [0.6666666666666666, "#ed7953"], [0.7777777777777778, "#fb9f3a"], [0.8888888888888888, "#fdca26"], [1.0, "#f0f921"]], "sequentialminus": [[0.0, "#0d0887"], [0.1111111111111111, "#46039f"], [0.2222222222222222, "#7201a8"], [0.3333333333333333, "#9c179e"], [0.4444444444444444, "#bd3786"], [0.5555555555555556, "#d8576b"], [0.6666666666666666, "#ed7953"], [0.7777777777777778, "#fb9f3a"], [0.8888888888888888, "#fdca26"], [1.0, "#f0f921"]]}, "colorway": ["#636efa", "#EF553B", "#00cc96", "#ab63fa", "#FFA15A", "#19d3f3", "#FF6692", "#B6E880", "#FF97FF", "#FECB52"], "font": {"color": "#f2f5fa"}, "geo": {"bgcolor": "rgb(17,17,17)", "lakecolor": "rgb(17,17,17)", "landcolor": "rgb(17,17,17)", "showlakes": true, "showland": true, "subunitcolor": "#506784"}, "hoverlabel": {"align": "left"}, "hovermode": "closest", "mapbox": {"style": "dark"}, "paper_bgcolor": "rgb(17,17,17)", "plot_bgcolor": "rgb(17,17,17)", "polar": {"angularaxis": {"gridcolor": "#506784", "linecolor": "#506784", "ticks": ""}, "bgcolor": "rgb(17,17,17)", "radialaxis": {"gridcolor": "#506784", "linecolor": "#506784", "ticks": ""}}, "scene": {"xaxis": {"backgroundcolor": "rgb(17,17,17)", "gridcolor": "#506784", "gridwidth": 2, "linecolor": "#506784", "showbackground": true, "ticks": "", "zerolinecolor": "#C8D4E3"}, "yaxis": {"backgroundcolor": "rgb(17,17,17)", "gridcolor": "#506784", "gridwidth": 2, "linecolor": "#506784", "showbackground": true, "ticks": "", "zerolinecolor": "#C8D4E3"}, "zaxis": {"backgroundcolor": "rgb(17,17,17)", "gridcolor": "#506784", "gridwidth": 2, "linecolor": "#506784", "showbackground": true, "ticks": "", "zerolinecolor": "#C8D4E3"}}, "shapedefaults": {"line": {"color": "#f2f5fa"}}, "sliderdefaults": {"bgcolor": "#C8D4E3", "bordercolor": "rgb(17,17,17)", "borderwidth": 1, "tickwidth": 0}, "ternary": {"aaxis": {"gridcolor": "#506784", "linecolor": "#506784", "ticks": ""}, "baxis": {"gridcolor": "#506784", "linecolor": "#506784", "ticks": ""}, "bgcolor": "rgb(17,17,17)", "caxis": {"gridcolor": "#506784", "linecolor": "#506784", "ticks": ""}}, "title": {"x": 0.05}, "updatemenudefaults": {"bgcolor": "#506784", "borderwidth": 0}, "xaxis": {"automargin": true, "gridcolor": "#283442", "linecolor": "#506784", "ticks": "", "title": {"standoff": 15}, "zerolinecolor": "#283442", "zerolinewidth": 2}, "yaxis": {"automargin": true, "gridcolor": "#283442", "linecolor": "#506784", "ticks": "", "title": {"standoff": 15}, "zerolinecolor": "#283442", "zerolinewidth": 2}}}, "title": {"text": "\u672d\u5e4c\u611f\u67d3\u72b6\u6cc1 2021-04-25 \uff5e 2021-07-19 15:57"}, "width": 600, "xaxis": {"anchor": "y", "domain": [0.0, 0.475], "matches": "x5", "showticklabels": false}, "xaxis2": {"anchor": "y2", "domain": [0.525, 1.0], "matches": "x6", "showticklabels": false}, "xaxis3": {"anchor": "y3", "domain": [0.0, 0.475], "matches": "x5", "showticklabels": false}, "xaxis4": {"anchor": "y4", "domain": [0.525, 1.0], "matches": "x6", "showticklabels": false}, "xaxis5": {"anchor": "y5", "domain": [0.0, 0.475]}, "xaxis6": {"anchor": "y6", "domain": [0.525, 1.0]}, "yaxis": {"anchor": "x", "domain": [0.7133333333333334, 1.0], "range": [0, 5121.6]}, "yaxis2": {"anchor": "x2", "domain": [0.7133333333333334, 1.0], "range": [0, 548.9000000000001]}, "yaxis3": {"anchor": "x3", "domain": [0.3566666666666667, 0.6433333333333333], "range": [0, 94.06250000000001]}, "yaxis4": {"anchor": "x4", "domain": [0.3566666666666667, 0.6433333333333333], "range": [0, 22.899628252788105]}, "yaxis5": {"anchor": "x5", "domain": [0.0, 0.2866666666666667]}, "yaxis6": {"anchor": "x6", "domain": [0.0, 0.2866666666666667], "range": [0, 14.454819997345457]}},                        {"responsive": true}                    )                };                            </script>        </div>
